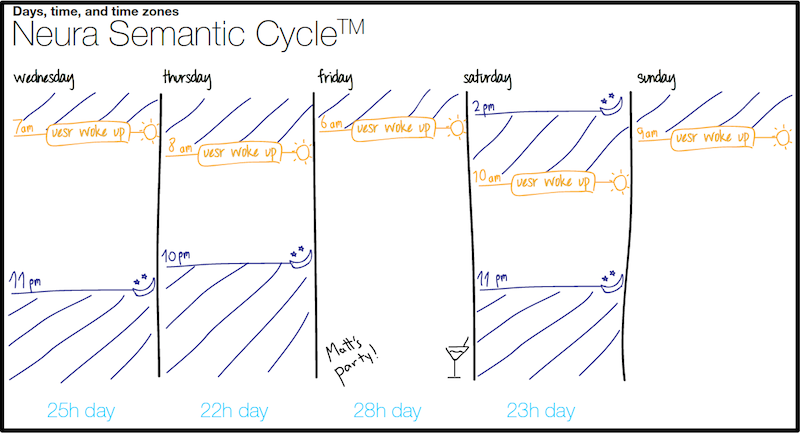
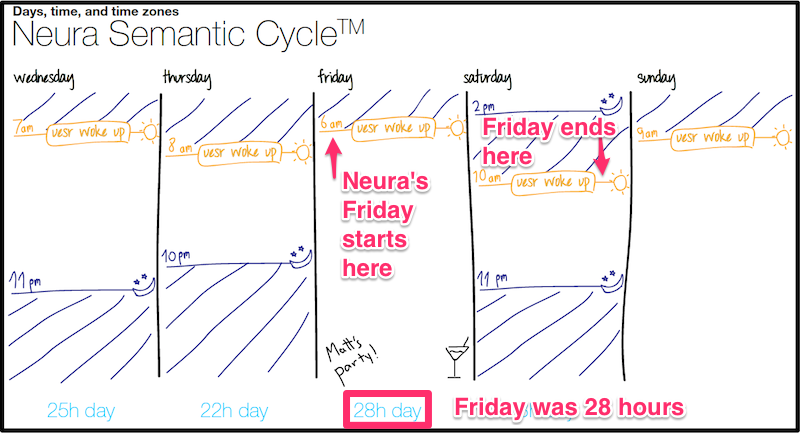
update Neura semantic calendar in basics.md

Changed region(s): [[0.4062, 0.9007, 0.875, 0.9908], [0.4062, 0.3303, 0.5625, 0.6605], [0.5938, 0.2702, 0.7812, 0.4203]]

diff --git a/text/basics.md b/text/basics.md
@@ -49,10 +49,14 @@ Neura is available for users with smartphones running Android or iOS.  The Neura
 
 
 ## Days, time, and time zones
-A "Neura day" is from when a user wakes up one day to when they wake up the next day.  Consequently, a calendar day is always 24 hours long, whereas the length of a Neura day varies with user sleep patterns.  
-Specifically, Neura treats the event when the user awoke to be the "anchor" that defines their day.  A Neura day begins on the calendar day when the user awakes and finishes the following calendar day just before the user awakes; we believe this  best conveys a day from the perspective of the user.  Additionally, if Neura is unable to detect when a user awoke (e.g. because their phone is off), then there may not be data objects available for that day.  
+A "Neura day" is from when a user wakes up one day to when they wake up the next day.  Consequently, a calendar day is always 24 hours long, whereas the length of a Neura day varies with user sleep patterns.  If a user wakes up at 6am on Friday and then wakes up at 10am on Saturday, then Neura says their Friday was 28 hours; Neura doesn't consider w.
+
+ Thursday and then wakes up at 6am on Friday
 
 ![Neura's view of a person's day](https://github.com/NeuraLabs/Neura_documentation/blob/master/resources/semantic_cycle.png)
+
+Specifically, Neura treats the event when the user awoke to be the "anchor" that defines their day.  A Neura day begins on the calendar day when the user awakes and finishes the following calendar day just before the user awakes; we believe this  best conveys a day from the perspective of the user.  Additionally, if Neura is unable to detect when a user awoke (e.g. because their phone is off), then there may not be data objects available for that day.  
+
 
 ### Timezone changes
 Neura considers a user changing timezones as an [edge case](http://en.wikipedia.org/wiki/Edge_case). Consequently, our approach is to always calculate events based on the timezone the user was in when they awoke, regardless of their timezone the rest of the day.
